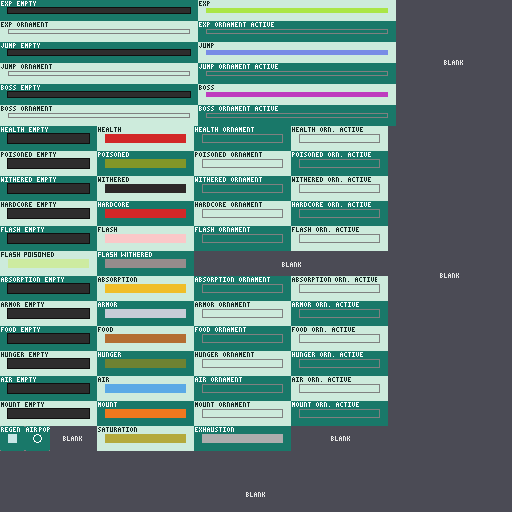
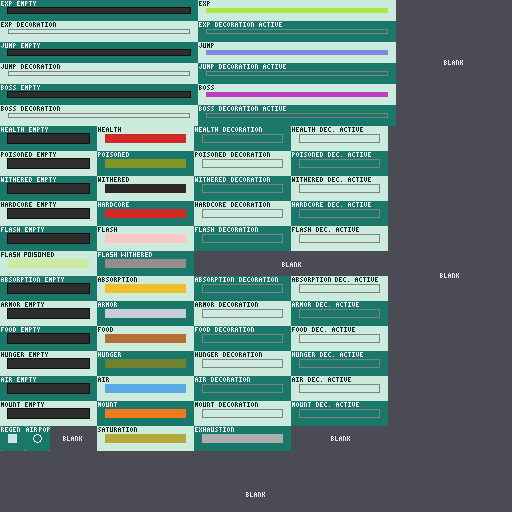
Ornament -> Decoration

diff --git a/src/main/java/com/gtnewhorizons/dashboard/client/BarThemes.java b/src/main/java/com/gtnewhorizons/dashboard/client/BarThemes.java
@@ -107,18 +107,18 @@ public final class BarThemes {
     }
 
     /**
-     * The empty bar, the fill, then one ornament: the active one while the bar is full. Sheets are painted filling from
-     * the left, so a bar filling from the right is drawn mirrored.
+     * The empty bar, the fill, then one decoration: the active one while the bar is full. Sheets are painted filling
+     * from the left, so a bar filling from the right is drawn mirrored.
      */
     public static void drawBar(String theme, BarSlot slot, int x, int y, float fraction, boolean fromRight) {
         drawWhole(theme, slot, Layer.EMPTY, x, y, fromRight);
         drawFillRange(theme, slot, x, y, 0, fraction, fromRight);
-        drawOrnament(theme, slot, x, y, isFull(slot, fraction), fromRight);
+        drawDecoration(theme, slot, x, y, isFull(slot, fraction), fromRight);
     }
 
     /**
      * Health in its state, with the flash row and the health just lost while flashing (flash null when not), and the
-     * hardcore overlay on top. In hardcore, the hardcore ornament replaces the state's.
+     * hardcore overlay on top. In hardcore, the hardcore decoration replaces the state's.
      */
     public static void drawHealth(String theme, BarSlot state, BarSlot flash, int x, int y, float fill, float lastFill,
         boolean hardcore, boolean fromRight) {
@@ -133,7 +133,7 @@ public final class BarThemes {
         if (hardcore) {
             drawFillRange(theme, BarSlot.HEALTH_HARDCORE, x, y, 0, fill, fromRight);
         }
-        drawOrnament(theme, hardcore ? BarSlot.HEALTH_HARDCORE : state, x, y, isFull(state, fill), fromRight);
+        drawDecoration(theme, hardcore ? BarSlot.HEALTH_HARDCORE : state, x, y, isFull(state, fill), fromRight);
     }
 
     /** A layer drawn with its 8 px space, like the empty bar or a single piece. */
@@ -149,8 +149,8 @@ public final class BarThemes {
             mirrored);
     }
 
-    public static void drawOrnament(String theme, BarSlot slot, int x, int y, boolean active, boolean mirrored) {
-        drawWhole(theme, slot, active ? Layer.ORNAMENT_ACTIVE : Layer.ORNAMENT, x, y, mirrored);
+    public static void drawDecoration(String theme, BarSlot slot, int x, int y, boolean active, boolean mirrored) {
+        drawWhole(theme, slot, active ? Layer.DECORATION_ACTIVE : Layer.DECORATION, x, y, mirrored);
     }
 
     /** Full once the fill covers every pixel of the bar. */

diff --git a/src/main/java/com/gtnewhorizons/dashboard/client/BarSlot.java b/src/main/java/com/gtnewhorizons/dashboard/client/BarSlot.java
@@ -37,8 +37,8 @@ public enum BarSlot {
     public enum Layer {
         EMPTY,
         FULL,
-        ORNAMENT,
-        ORNAMENT_ACTIVE
+        DECORATION,
+        DECORATION_ACTIVE
     }
 
     private static final int ROW_SLOT_WIDTH = 97;

diff --git a/docs/TextureGuide.md b/docs/TextureGuide.md
@@ -79,7 +79,7 @@ players can move, resize and hide. They are listed in `images.json`, next to `th
 - Every slot is the bar plus **8 px of space on each side**. The bar starts 8 px in from the slot's top left corner.
 - Wide slots (XP, jump, boss): **198 x 21**, bar **182 x 5**
 - Row slots (everything else): **97 x 25**, bar **81 x 9**
-- Each bar has 4 slots: **empty**, **full**, **ornament** and **ornament active**.
+- Each bar has 4 slots: **empty**, **full**, **decoration** and **decoration active**.
 
 ## Slots
 
@@ -90,39 +90,39 @@ Wide bars, 2 x 2 each:
 | v | u 0 | u 198 |
 |---|---|---|
 | **0** | XP empty | XP full |
-| **21** | XP ornament | XP ornament active |
+| **21** | XP decoration | XP decoration active |
 | **42** | Jump empty | Jump full |
-| **63** | Jump ornament | Jump ornament active |
+| **63** | Jump decoration | Jump decoration active |
 | **84** | Boss empty | Boss full |
-| **105** | Boss ornament | Boss ornament active |
+| **105** | Boss decoration | Boss decoration active |
 
 Row bars, one row each:
 
 | v | u 0 | u 97 | u 194 | u 291 |
 |---|---|---|---|---|
-| **126** | Health empty | Health full | Health ornament | Health ornament active |
-| **151** | Poisoned empty | Poisoned full | Poisoned ornament | Poisoned ornament active |
-| **176** | Withered empty | Withered full | Withered ornament | Withered ornament active |
-| **201** | Hardcore empty | Hardcore full | Hardcore ornament | Hardcore ornament active |
-| **226** | Flash empty | Flash full | Flash ornament | Flash ornament active |
+| **126** | Health empty | Health full | Health decoration | Health decoration active |
+| **151** | Poisoned empty | Poisoned full | Poisoned decoration | Poisoned decoration active |
+| **176** | Withered empty | Withered full | Withered decoration | Withered decoration active |
+| **201** | Hardcore empty | Hardcore full | Hardcore decoration | Hardcore decoration active |
+| **226** | Flash empty | Flash full | Flash decoration | Flash decoration active |
 | **251** | Flash poisoned (full) | Flash withered (full) | | |
-| **276** | Absorption empty | Absorption full | Absorption ornament | Absorption ornament active |
-| **301** | Armor empty | Armor full | Armor ornament | Armor ornament active |
-| **326** | Food empty | Food full | Food ornament | Food ornament active |
-| **351** | Hunger empty | Hunger full | Hunger ornament | Hunger ornament active |
-| **376** | Air empty | Air full | Air ornament | Air ornament active |
-| **401** | Mount health empty | Mount health full | Mount health ornament | Mount health ornament active |
+| **276** | Absorption empty | Absorption full | Absorption decoration | Absorption decoration active |
+| **301** | Armor empty | Armor full | Armor decoration | Armor decoration active |
+| **326** | Food empty | Food full | Food decoration | Food decoration active |
+| **351** | Hunger empty | Hunger full | Hunger decoration | Hunger decoration active |
+| **376** | Air empty | Air full | Air decoration | Air decoration active |
+| **401** | Mount health empty | Mount health full | Mount health decoration | Mount health decoration active |
 | **426** | Regen shine *(u 0, 25 x 25)*, Air pop *(u 25, 25 x 25)* | AppleCore saturation (full) | AppleCore exhaustion (full) | |
 
 ## How the slots are used
 
 - Every slot is drawn exactly as painted. A transparent slot draws nothing, so state rows (poisoned, withered, flash,
-  hunger) need their empty bar and ornaments painted too, not only the fill.
-- **Empty** slots and **ornaments** are drawn whole, including their 8 px space. Paint outlines, glow and frames there.
+  hunger) need their empty bar and decorations painted too, not only the fill.
+- **Empty** slots and **decorations** are drawn whole, including their 8 px space. Paint outlines, glow and frames there.
 - **Full** slots are cut to how full the bar is, and only the bar area is used. Their 8 px space is ignored.
-- Flair that reaches into the bar area of an empty slot gets covered by the fill. Ornaments are drawn after the fill.
-- **Ornament active** replaces the ornament while the bar is completely full.
-- Paint every bar **filling from the left**, with its ornament at the right end. Bars that fill from the right (food,
+- Flair that reaches into the bar area of an empty slot gets covered by the fill. decorations are drawn after the fill.
+- **decoration active** replaces the decoration while the bar is completely full.
+- Paint every bar **filling from the left**, with its decoration at the right end. Bars that fill from the right (food,
   air and mount health by default, or any bar a player flips) are drawn mirrored.
 - **Poisoned** and **withered** replace the health row while the effect lasts. Withered wins over poisoned.
 - **Hunger** replaces the food row during the Hunger effect.
@@ -131,7 +131,7 @@ Row bars, one row each:
   the flash full bar shows the health just lost. While poisoned or withered, the flash poisoned or flash withered
   fill shows it instead.
 - **Hardcore** is drawn on top of the health bar in Hardcore worlds, whatever state it is in: its empty over the empty
-  bar, its full over the fill. Its ornaments replace the health ornaments. Leave it transparent where the bar should
+  bar, its full over the fill. Its decorations replace the health decorations. Leave it transparent where the bar should
   show through.
 - **Health regen shine** is a 9 x 9 piece (25 x 25 with its 8 px space), drawn whole on top of the health bar during
   Regeneration. It steps along the bar one heart width (8 px) per tick, like vanilla's heart wave.
